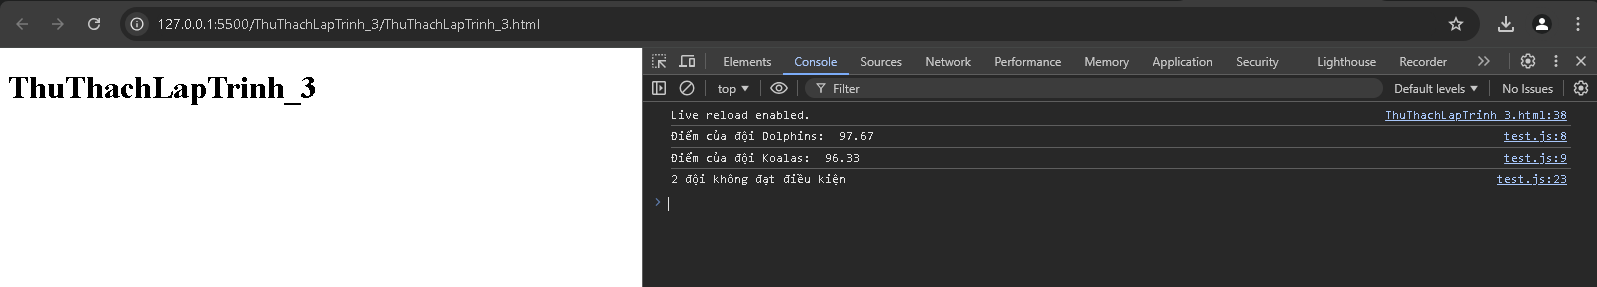
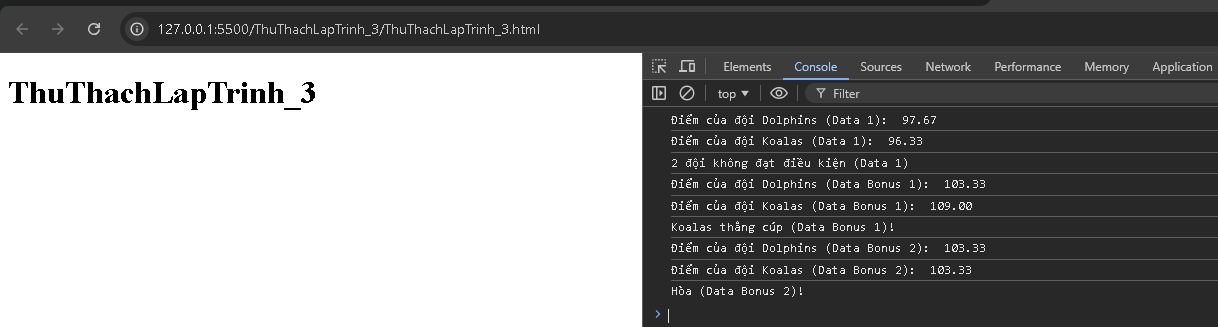
updateCau3

diff --git a/PTGDUD_Buoi1/ThuThachLapTrinh_3/test.js b/PTGDUD_Buoi1/ThuThachLapTrinh_3/test.js
@@ -1,24 +1,67 @@
-//hàm tính điểm trung bình
+// Hàm tính điểm trung bình
 function tinhTrungBinh(diem1, diem2, diem3) {
   return (diem1 + diem2 + diem3) / 3;
 }
 
-let diemDolphins = tinhTrungBinh(96, 108, 89);
-let diemKoalas = tinhTrungBinh(88, 91, 110);
-console.log("Điểm của đội Dolphins: ", diemDolphins.toFixed(2));
-console.log("Điểm của đội Koalas: ", diemKoalas.toFixed(2));
+// Data 1: Dolphins score 96, 108, 89. Koalas score 88, 91, 110
+let diemDolphins1 = tinhTrungBinh(96, 108, 89);
+let diemKoalas1 = tinhTrungBinh(88, 91, 110);
+console.log("Điểm của đội Dolphins (Data 1): ", diemDolphins1.toFixed(2));
+console.log("Điểm của đội Koalas (Data 1): ", diemKoalas1.toFixed(2));
 
-//người chiến thắng
-if (diemDolphins > diemKoalas && diemDolphins >= 100) {
-  console.log("Dolphins thắng cúp!");
-} else if (diemDolphins < diemKoalas && diemKoalas >= 100) {
-  console.log("Koalas thắng cúp!");
+// Người chiến thắng Data 1
+if (diemDolphins1 > diemKoalas1 && diemDolphins1 >= 100) {
+  console.log("Dolphins thắng cúp (Data 1)!");
+} else if (diemDolphins1 < diemKoalas1 && diemKoalas1 >= 100) {
+  console.log("Koalas thắng cúp (Data 1)!");
 } else if (
-  diemDolphins >= 100 &&
-  diemKoalas >= 100 &&
-  diemDolphins === diemKoalas
+  diemDolphins1 >= 100 &&
+  diemKoalas1 >= 100 &&
+  diemDolphins1 === diemKoalas1
 ) {
-  console.log("Hòa!");
+  console.log("Hòa (Data 1)!");
 } else {
-  console.log("2 đội không đạt điều kiện");
+  console.log("2 đội không đạt điều kiện (Data 1)");
+}
+
+// Data Bonus 1: Dolphins score 97, 112, 101. Koalas score 109, 95, 123
+let diemDolphins2 = tinhTrungBinh(97, 112, 101);
+let diemKoalas2 = tinhTrungBinh(109, 95, 123);
+console.log("Điểm của đội Dolphins (Data Bonus 1): ", diemDolphins2.toFixed(2));
+console.log("Điểm của đội Koalas (Data Bonus 1): ", diemKoalas2.toFixed(2));
+
+// Người chiến thắng Data Bonus 1
+if (diemDolphins2 > diemKoalas2 && diemDolphins2 >= 100) {
+  console.log("Dolphins thắng cúp (Data Bonus 1)!");
+} else if (diemDolphins2 < diemKoalas2 && diemKoalas2 >= 100) {
+  console.log("Koalas thắng cúp (Data Bonus 1)!");
+} else if (
+  diemDolphins2 >= 100 &&
+  diemKoalas2 >= 100 &&
+  diemDolphins2 === diemKoalas2
+) {
+  console.log("Hòa (Data Bonus 1)!");
+} else {
+  console.log("2 đội không đạt điều kiện (Data Bonus 1)");
+}
+
+// Data Bonus 2: Dolphins score 97, 112, 101. Koalas score 109, 95, 106
+let diemDolphins3 = tinhTrungBinh(97, 112, 101);
+let diemKoalas3 = tinhTrungBinh(109, 95, 106);
+console.log("Điểm của đội Dolphins (Data Bonus 2): ", diemDolphins3.toFixed(2));
+console.log("Điểm của đội Koalas (Data Bonus 2): ", diemKoalas3.toFixed(2));
+
+// Người chiến thắng Data Bonus 2
+if (diemDolphins3 > diemKoalas3 && diemDolphins3 >= 100) {
+  console.log("Dolphins thắng cúp (Data Bonus 2)!");
+} else if (diemDolphins3 < diemKoalas3 && diemKoalas3 >= 100) {
+  console.log("Koalas thắng cúp (Data Bonus 2)!");
+} else if (
+  diemDolphins3 >= 100 &&
+  diemKoalas3 >= 100 &&
+  diemDolphins3 === diemKoalas3
+) {
+  console.log("Hòa (Data Bonus 2)!");
+} else {
+  console.log("2 đội không đạt điều kiện (Data Bonus 2)");
 }
